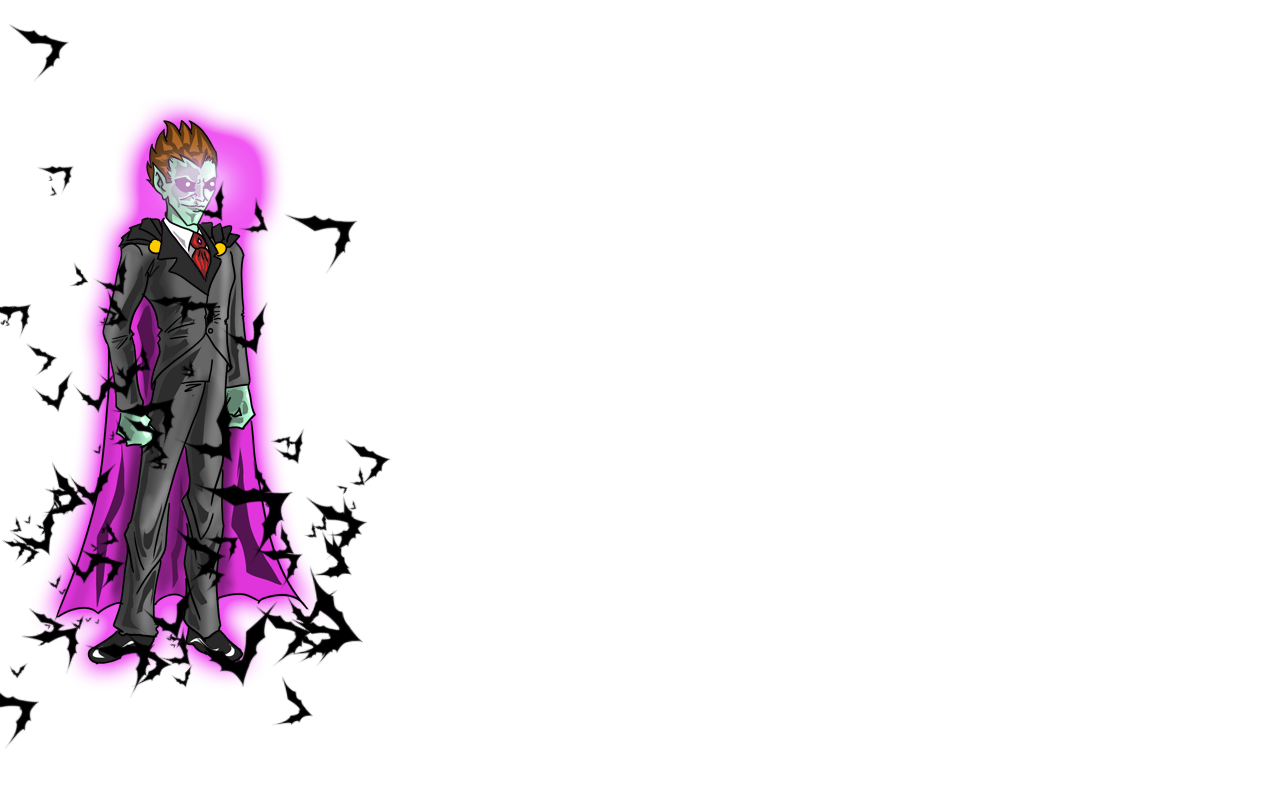
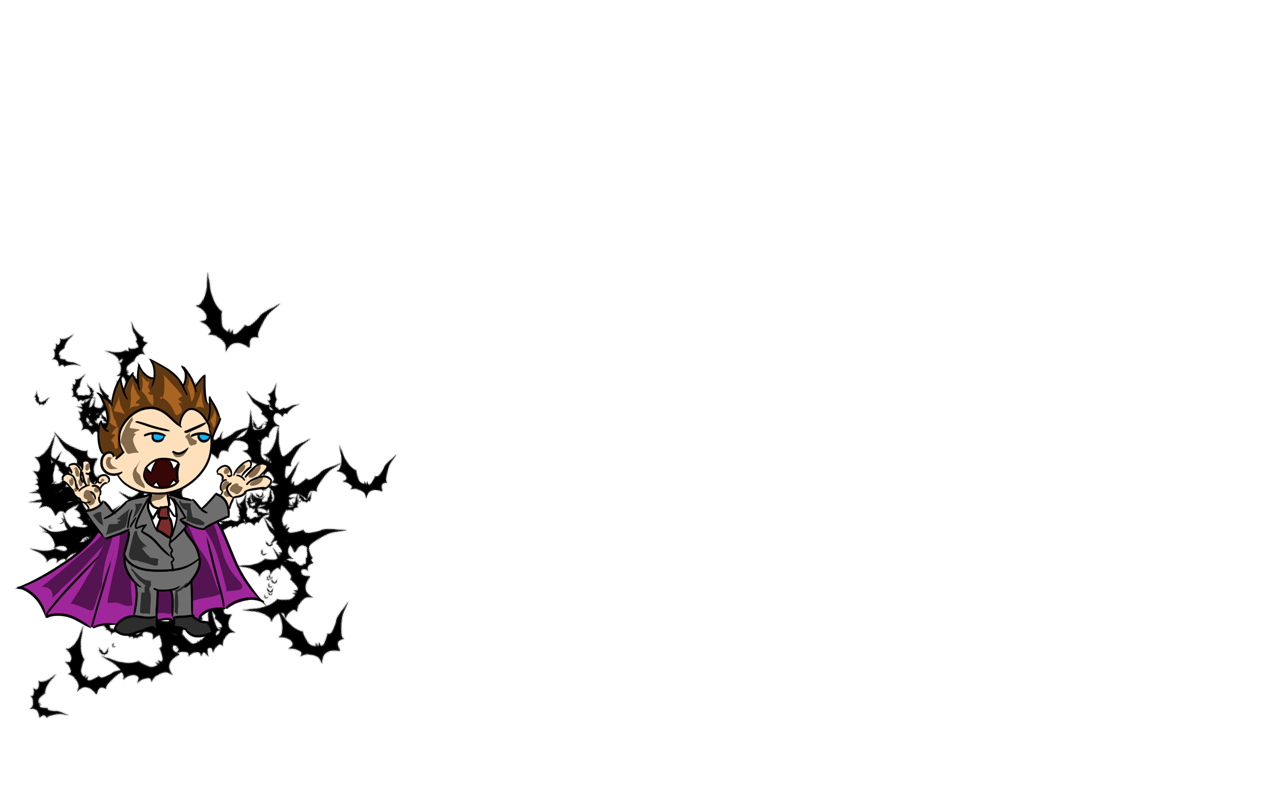
Se agregó las imágenes del ultimo ataque de curtís, y se agregó a EscenaBatalla los métodos para llamar a esas imágenes sin modificar nada de la lógica, y el botón del super

diff --git a/app/src/main/java/mx/itesm/spookybattle/EscenaBatalla.java b/app/src/main/java/mx/itesm/spookybattle/EscenaBatalla.java
@@ -419,8 +419,15 @@ public class EscenaBatalla extends EscenaBase
                 }
                 break;
             case 4:
-                for (int i = 0; i < 8; i++) {
+                for (int i = 0; i < 7; i++) {
                     ITextureRegion imagen = cargarImagen("AnimacionesCurtis/Darkness/Darkness0" + (i) + ".png");
+                    arrayImagenes.add(i, imagen);
+
+                }
+                break;
+            case 5:
+                for (int i = 0; i < 8; i++) {
+                    ITextureRegion imagen = cargarImagen("AnimacionesCurtis/Super/Super0" + (i) + ".png");
                     arrayImagenes.add(i, imagen);
 
                 }
@@ -563,6 +570,50 @@ public class EscenaBatalla extends EscenaBase
 
     }
     private void animacionChoke() {
+
+        /*arrayImagenes = new ArrayList<>();
+        numImagenes = 0;
+        for (int i = 0; i < 7; i++) {
+            ITextureRegion imagen = cargarImagen("AnimacionesCurtis/Choke/VampChoke0" + (i + 1) + ".png");
+            arrayImagenes.add(i, imagen);
+        }*/
+
+
+        registerUpdateHandler(new TimerHandler(0.3f, new ITimerCallback() {
+            @Override
+            public void onTimePassed(TimerHandler pTimerHandler) {
+                //A partir de aqui puedes agregrar las instrucciones que quieres que realice el timer
+
+                if (numImagenes < 7) {
+                    spriteCurtisAnimado.setAlpha(0);
+
+                    if (tagSpriteChild != null)
+                        detachChild(tagSpriteChild);
+
+                    spriteFrame = cargarSprite(ControlJuego.ANCHO_CAMARA / 2, ControlJuego.ALTO_CAMARA / 2, arrayImagenes.get(numImagenes));
+                    attachChild(spriteFrame);
+                    tagSpriteChild = spriteFrame;
+
+                    numImagenes++;
+                    animacionChoke();
+                } else {
+                    for (int i = 0; i < 7; i++) {
+
+                        arrayImagenes.get(i).getTexture().unload();
+                    }
+                    arrayImagenes.clear();
+                    reset();
+                    crearEscena();
+                    numImagenes = 0;
+
+                }
+
+
+            }
+        }));
+
+    }
+    private void animacionDarkness() {
 
         /*arrayImagenes = new ArrayList<>();
         numImagenes = 0;
